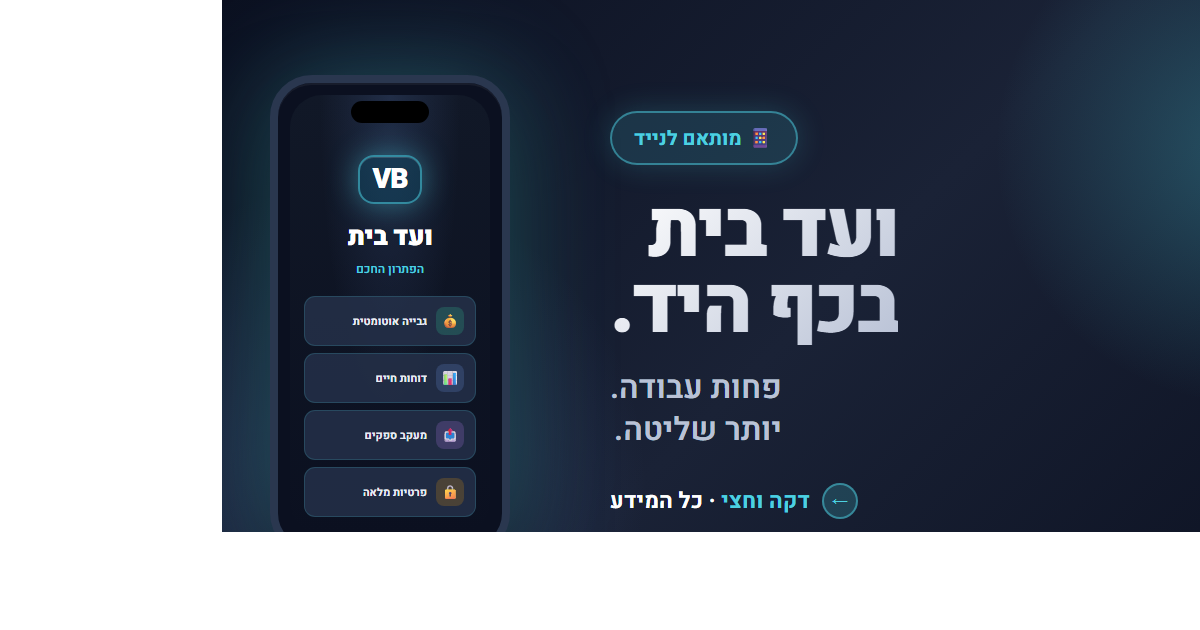
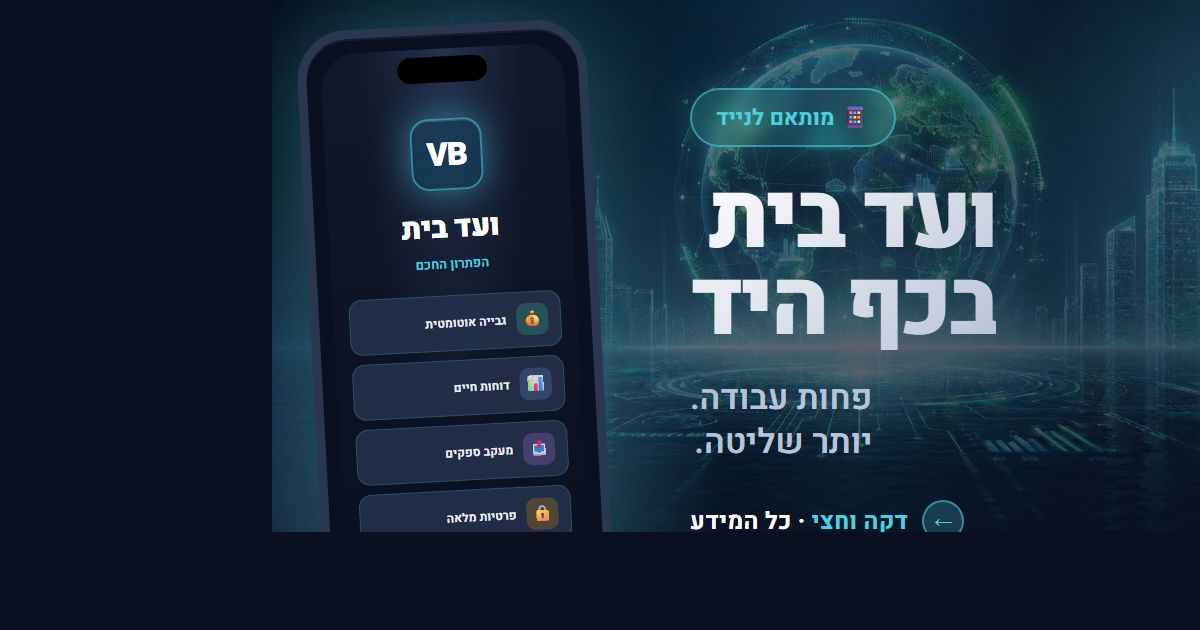
Improve mobile OG image: full-bleed background, larger phone, remove trailing period

diff --git a/og-image-mobile.html b/og-image-mobile.html
@@ -14,31 +14,35 @@ body {
   font-family: 'Heebo', sans-serif;
   color: #fff;
   background:
-    linear-gradient(135deg, #0b1020 0%, #1a2236 50%, #0b1020 100%);
+    linear-gradient(135deg, rgba(11,16,32,0.45) 0%, rgba(11,16,32,0.85) 100%),
+    url('screenshots/14.png') center center / cover no-repeat,
+    #0b1020;
   overflow: hidden;
   position: relative;
 }
 
-/* Decorative glow blobs */
+/* Decorative glow blobs — fill the corners */
 body::before {
   content: '';
   position: absolute;
-  top: -150px;
-  right: -150px;
-  width: 600px;
-  height: 600px;
-  background: radial-gradient(circle, rgba(77,208,225,0.30) 0%, transparent 60%);
+  top: -200px;
+  right: -200px;
+  width: 700px;
+  height: 700px;
+  background: radial-gradient(circle, rgba(77,208,225,0.35) 0%, transparent 60%);
   pointer-events: none;
+  z-index: 0;
 }
 body::after {
   content: '';
   position: absolute;
-  bottom: -200px;
-  left: -200px;
-  width: 700px;
-  height: 700px;
-  background: radial-gradient(circle, rgba(124,167,255,0.20) 0%, transparent 60%);
+  bottom: -250px;
+  left: -250px;
+  width: 800px;
+  height: 800px;
+  background: radial-gradient(circle, rgba(124,167,255,0.25) 0%, transparent 60%);
   pointer-events: none;
+  z-index: 0;
 }
 
 .wrap {
@@ -49,34 +53,35 @@ body::after {
   display: flex;
   align-items: center;
   justify-content: space-between;
-  padding: 50px 70px;
-  direction: ltr; /* override body RTL just for layout flow */
+  padding: 0 60px;
+  direction: ltr;
 }
-.wrap > * { direction: rtl; } /* but keep content RTL */
+.wrap > * { direction: rtl; }
 
-/* === Phone mockup === */
+/* === Phone mockup (LEFT side, larger) === */
 .phone {
-  width: 240px;
-  height: 480px;
+  width: 290px;
+  height: 580px;
   background: #0b1020;
-  border: 8px solid #2a374f;
-  border-radius: 42px;
+  border: 9px solid #2a374f;
+  border-radius: 50px;
   flex-shrink: 0;
   position: relative;
   box-shadow:
-    0 0 100px rgba(77,208,225,0.35),
-    0 30px 80px rgba(0,0,0,0.7),
-    inset 0 2px 0 rgba(255,255,255,0.05);
-  padding: 12px;
+    0 0 120px rgba(77,208,225,0.45),
+    0 40px 100px rgba(0,0,0,0.7),
+    inset 0 2px 0 rgba(255,255,255,0.06);
+  padding: 14px;
+  transform: rotate(-3deg);
 }
 .phone::after {
   content: '';
   position: absolute;
-  top: 18px;
+  top: 22px;
   left: 50%;
   transform: translateX(-50%);
-  width: 78px;
-  height: 22px;
+  width: 90px;
+  height: 26px;
   background: #000;
   border-radius: 100px;
   z-index: 5;
@@ -85,10 +90,10 @@ body::after {
   width: 100%;
   height: 100%;
   background:
-    radial-gradient(ellipse at top, rgba(124,167,255,0.15), transparent 50%),
+    radial-gradient(ellipse at top, rgba(124,167,255,0.18), transparent 50%),
     linear-gradient(180deg, #111827 0%, #0b1020 100%);
-  border-radius: 32px;
-  padding: 60px 14px 18px;
+  border-radius: 38px;
+  padding: 70px 16px 20px;
   display: flex;
   flex-direction: column;
   align-items: center;
@@ -96,72 +101,72 @@ body::after {
   overflow: hidden;
 }
 .phone-logo {
-  width: 64px;
-  height: 64px;
+  width: 72px;
+  height: 72px;
   background: rgba(13, 100, 130, 0.30);
   border: 2px solid rgba(77, 208, 225, 0.55);
-  border-radius: 16px;
+  border-radius: 18px;
   display: flex;
   align-items: center;
   justify-content: center;
   font-weight: 900;
-  font-size: 28px;
+  font-size: 32px;
   color: #fff;
   letter-spacing: -1px;
   box-shadow:
-    0 0 30px rgba(77, 208, 225, 0.45),
+    0 0 35px rgba(77, 208, 225, 0.50),
     inset 0 1px 0 rgba(255, 255, 255, 0.15);
-  margin-bottom: 14px;
+  margin-bottom: 16px;
 }
 .phone-title {
-  font-size: 26px;
+  font-size: 30px;
   font-weight: 900;
   letter-spacing: -0.02em;
   margin-bottom: 4px;
   color: #fff;
 }
 .phone-tagline {
-  font-size: 12px;
+  font-size: 13px;
   color: #4dd0e1;
   font-weight: 600;
-  margin-bottom: 18px;
+  margin-bottom: 22px;
 }
 .phone-cards {
   width: 100%;
   display: flex;
   flex-direction: column;
-  gap: 7px;
-}
-.phone-card {
-  background: rgba(36,48,73,0.85);
-  border: 1px solid rgba(77,208,225,0.18);
-  border-radius: 11px;
-  padding: 10px 11px;
-  display: flex;
-  align-items: center;
   gap: 9px;
 }
+.phone-card {
+  background: rgba(36,48,73,0.92);
+  border: 1px solid rgba(77,208,225,0.22);
+  border-radius: 13px;
+  padding: 11px 12px;
+  display: flex;
+  align-items: center;
+  gap: 10px;
+}
 .phone-card .ico {
-  width: 28px;
-  height: 28px;
-  border-radius: 8px;
-  background: rgba(124,167,255,0.18);
+  width: 32px;
+  height: 32px;
+  border-radius: 9px;
+  background: rgba(124,167,255,0.20);
   display: flex;
   align-items: center;
   justify-content: center;
-  font-size: 14px;
+  font-size: 16px;
   flex-shrink: 0;
 }
 .phone-card .lbl {
-  font-size: 11px;
+  font-size: 12px;
   font-weight: 700;
   color: #e8ecf4;
   text-align: right;
   flex: 1;
 }
-.phone-card.green .ico { background: rgba(52,211,153,0.20); }
-.phone-card.purple .ico { background: rgba(192,132,252,0.20); }
-.phone-card.warning .ico { background: rgba(245,158,11,0.20); }
+.phone-card.green .ico { background: rgba(52,211,153,0.22); }
+.phone-card.purple .ico { background: rgba(192,132,252,0.22); }
+.phone-card.warning .ico { background: rgba(245,158,11,0.22); }
 
 /* === Right text content === */
 .content {
@@ -170,25 +175,26 @@ body::after {
   flex-direction: column;
   align-items: flex-end;
   text-align: right;
-  padding: 0 30px 0 0;
-  max-width: 720px;
+  padding: 0 40px 0 60px;
+  max-width: 760px;
 }
 .badge {
   display: inline-flex;
   align-items: center;
   gap: 10px;
-  background: rgba(77,208,225,0.15);
-  border: 2px solid rgba(77,208,225,0.50);
-  padding: 10px 22px;
+  background: rgba(77,208,225,0.18);
+  border: 2px solid rgba(77,208,225,0.55);
+  padding: 11px 24px;
   border-radius: 100px;
-  font-size: 20px;
+  font-size: 22px;
   font-weight: 700;
   color: #4dd0e1;
   margin-bottom: 28px;
-  box-shadow: 0 0 30px rgba(77,208,225,0.20);
+  box-shadow: 0 0 40px rgba(77,208,225,0.25);
+  backdrop-filter: blur(8px);
 }
 .title {
-  font-size: 80px;
+  font-size: 92px;
   font-weight: 900;
   letter-spacing: -0.04em;
   line-height: 0.95;
@@ -196,34 +202,34 @@ body::after {
   -webkit-background-clip: text;
   background-clip: text;
   -webkit-text-fill-color: transparent;
-  margin-bottom: 22px;
+  margin-bottom: 26px;
 }
 .tagline {
-  font-size: 32px;
+  font-size: 34px;
   color: #b9c2d6;
   font-weight: 600;
-  margin-bottom: 32px;
+  margin-bottom: 36px;
   line-height: 1.3;
 }
 .cta-line {
-  font-size: 22px;
+  font-size: 24px;
   font-weight: 700;
   color: #fff;
   letter-spacing: 0.01em;
   display: flex;
   align-items: center;
-  gap: 12px;
+  gap: 14px;
 }
 .cta-line .arrow {
   display: inline-flex;
   align-items: center;
   justify-content: center;
-  width: 36px;
-  height: 36px;
-  background: rgba(77,208,225,0.20);
-  border: 2px solid rgba(77,208,225,0.50);
+  width: 42px;
+  height: 42px;
+  background: rgba(77,208,225,0.22);
+  border: 2px solid rgba(77,208,225,0.55);
   border-radius: 50%;
-  font-size: 16px;
+  font-size: 18px;
   color: #4dd0e1;
 }
 .cta-line .accent {
@@ -233,7 +239,7 @@ body::after {
 </head>
 <body>
   <div class="wrap">
-    <!-- Phone mockup (will appear on LEFT due to LTR wrap) -->
+    <!-- Phone mockup (LEFT due to LTR wrap) -->
     <div class="phone">
       <div class="phone-screen">
         <div class="phone-logo">VB</div>
@@ -260,10 +266,10 @@ body::after {
       </div>
     </div>
 
-    <!-- Text content -->
+    <!-- Right text content -->
     <div class="content">
       <div class="badge">📱 מותאם לנייד</div>
-      <div class="title">ועד בית<br>בכף היד.</div>
+      <div class="title">ועד בית<br>בכף היד</div>
       <div class="tagline">פחות עבודה.<br>יותר שליטה.</div>
       <div class="cta-line"><span class="arrow">←</span><span><span class="accent">דקה וחצי</span> · כל המידע</span></div>
     </div>